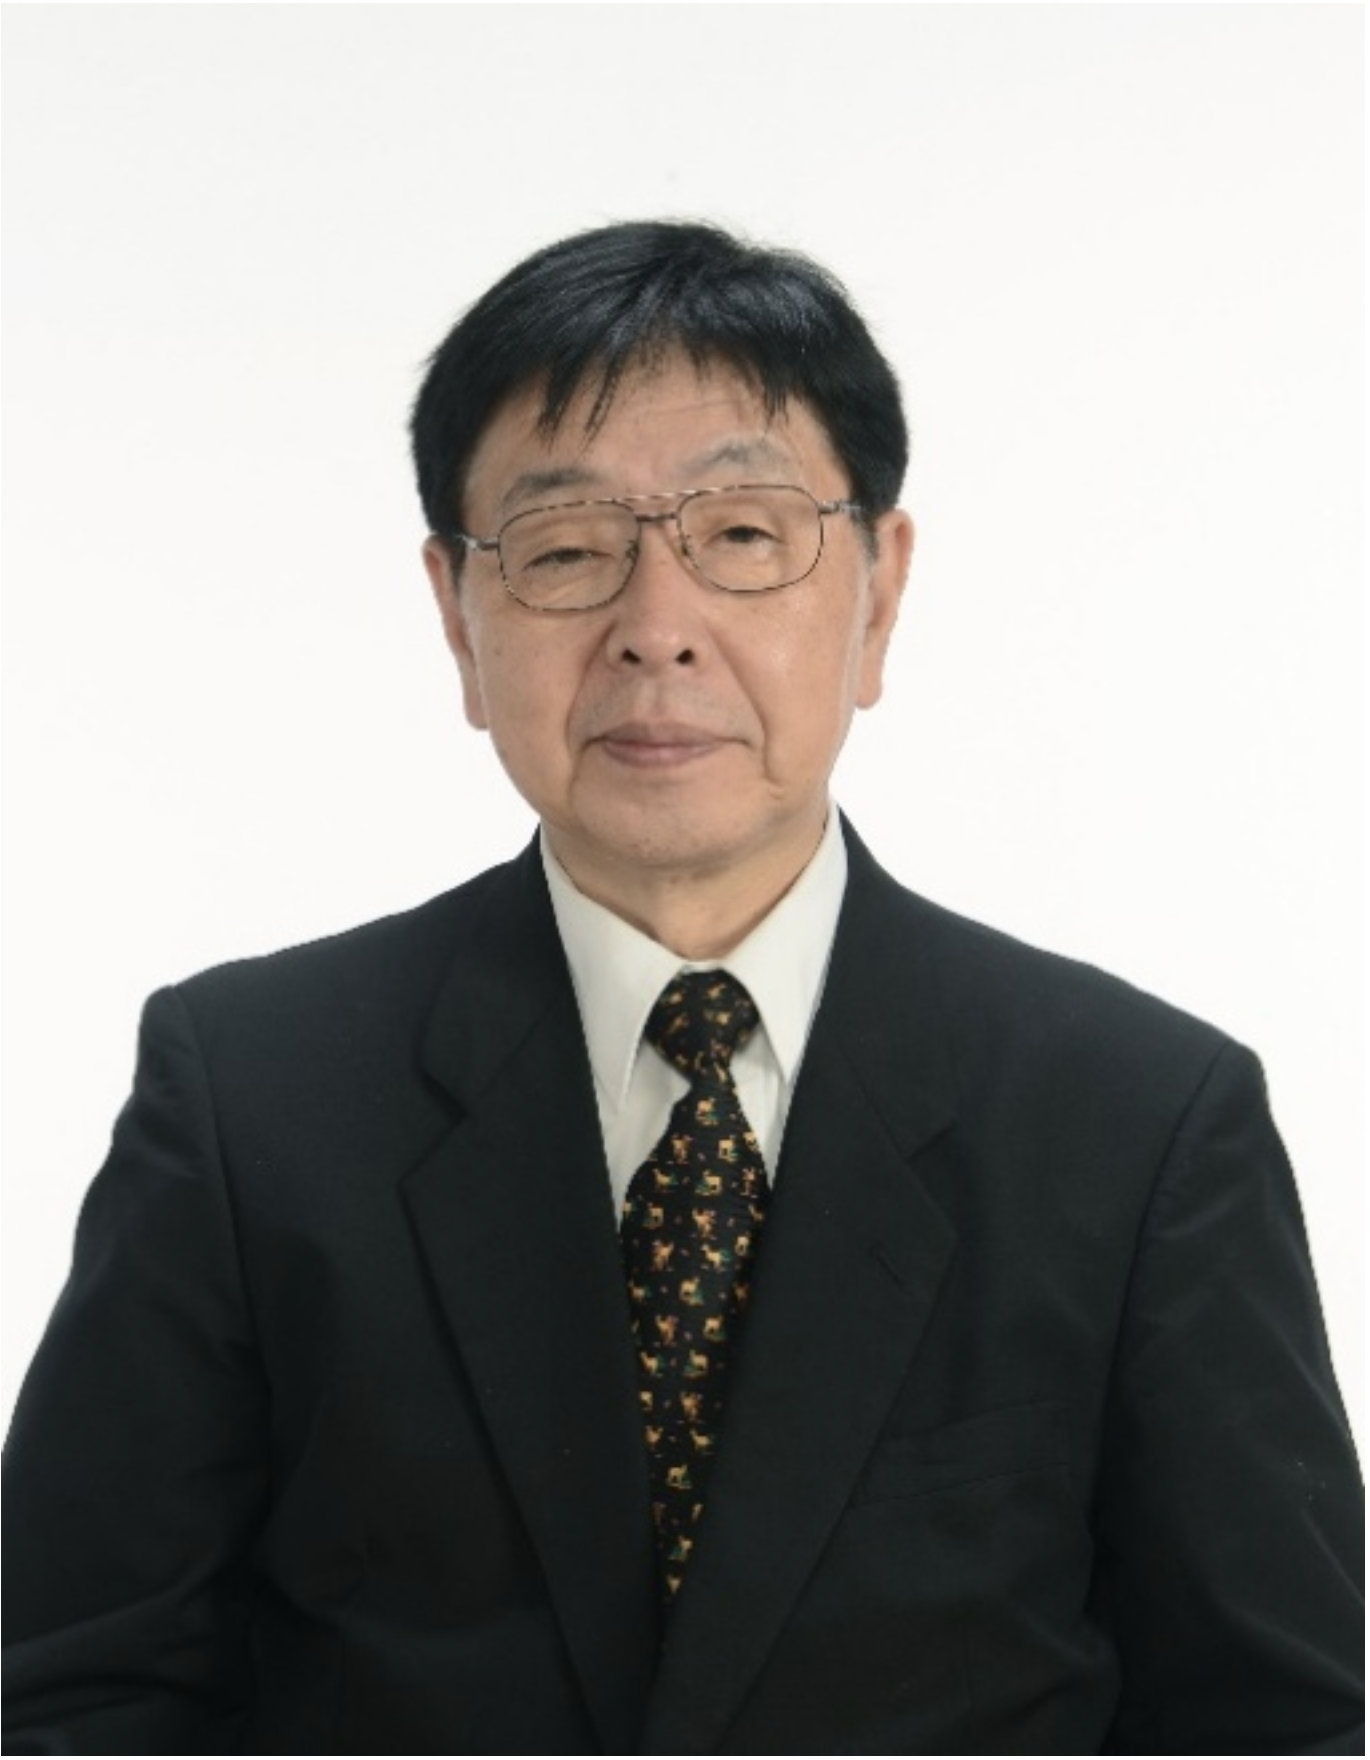
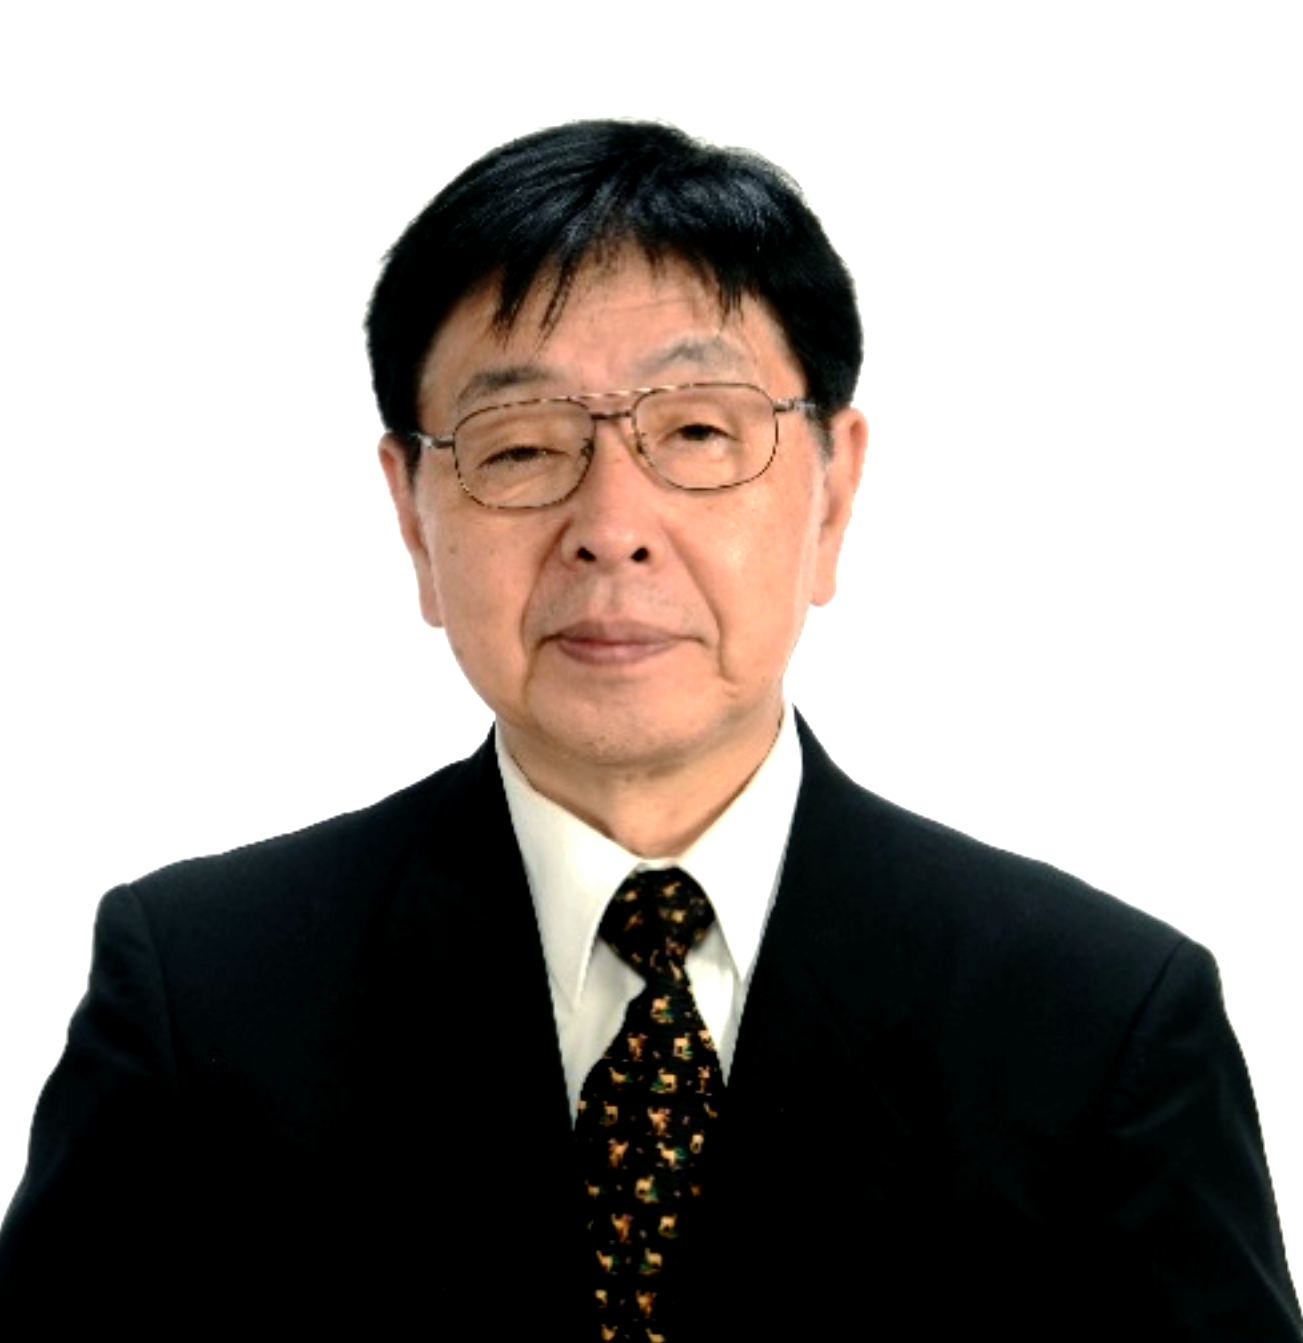
コンテンツ・コンポーネントの更新（copy.md、hero、about-intro、why-us等）
Made-with: Cursor

diff --git a/src/components/sections/why-us.tsx b/src/components/sections/why-us.tsx
@@ -1,12 +1,6 @@
 'use client';
 
 import { motion } from 'framer-motion';
-import {
-  Cpu,
-  CloudCog,
-  TrendingUp,
-  type LucideIcon,
-} from 'lucide-react';
 import { Container } from '@/components/ui/container';
 import { SectionHeading } from '@/components/ui/section-heading';
 import { WHY_US } from '@/lib/copy';
@@ -14,14 +8,8 @@ import { fadeInUp, staggerContainer, defaultViewport } from '@/lib/motion';
 
 /**
  * 選ばれる理由3本柱。
- * 各 reason に固有アイコン + ドットパターン背景を付与し視覚訴求を強化。
+ * 大きな番号 + ドットパターン背景で視覚訴求。
  */
-const REASON_ICONS: Record<string, LucideIcon> = {
-  '01': Cpu, // DX内製化
-  '02': CloudCog, // AI×クラウド
-  '03': TrendingUp, // 助成金
-};
-
 export function WhyUs() {
   return (
     <section className="bg-white section-py-lg relative overflow-hidden">
@@ -46,61 +34,50 @@ export function WhyUs() {
           variants={staggerContainer}
           className="space-y-10 md:space-y-14 max-w-5xl mx-auto"
         >
-          {WHY_US.reasons.map((reason) => {
-            const Icon = REASON_ICONS[reason.number] ?? Cpu;
-            return (
-              <motion.article
-                key={reason.number}
-                variants={fadeInUp}
-                className="relative grid grid-cols-1 md:grid-cols-[auto_1fr] gap-8 md:gap-12 items-start bg-gray-50 rounded-lg p-8 md:p-12 border border-gray-100 overflow-hidden"
-              >
-                {/* 背景: ドットパターン（右下） */}
+          {WHY_US.reasons.map((reason) => (
+            <motion.article
+              key={reason.number}
+              variants={fadeInUp}
+              className="relative grid grid-cols-1 md:grid-cols-[auto_1fr] gap-8 md:gap-12 items-start bg-gray-50 rounded-lg p-8 md:p-12 border border-gray-100 overflow-hidden"
+            >
+              {/* 背景: ドットパターン（右下） */}
+              <div
+                className="absolute -bottom-10 -right-10 w-64 h-64 opacity-[0.04]"
+                style={{
+                  backgroundImage:
+                    'radial-gradient(circle, #0B2545 1.5px, transparent 1.5px)',
+                  backgroundSize: '20px 20px',
+                }}
+                aria-hidden="true"
+              />
+
+              {/* 左側: 大きな番号 */}
+              <div className="flex-shrink-0 relative">
+                <span
+                  className="block font-sans-en font-extrabold text-accent/30 leading-none"
+                  style={{ fontSize: 'clamp(4rem, 6vw, 7rem)' }}
+                  aria-hidden="true"
+                >
+                  {reason.number}
+                </span>
+                {/* 下線 */}
                 <div
-                  className="absolute -bottom-10 -right-10 w-64 h-64 opacity-[0.04]"
-                  style={{
-                    backgroundImage:
-                      'radial-gradient(circle, #0B2545 1.5px, transparent 1.5px)',
-                    backgroundSize: '20px 20px',
-                  }}
+                  className="mt-4 w-20 h-0.5 bg-accent"
                   aria-hidden="true"
                 />
+              </div>
 
-                {/* 左側: アイコン + 番号 */}
-                <div className="flex-shrink-0 relative">
-                  {/* 番号（背景の薄い大きな数字） */}
-                  <span
-                    className="block font-sans-en font-extrabold text-accent/15 leading-none"
-                    style={{ fontSize: 'clamp(4rem, 6vw, 7rem)' }}
-                    aria-hidden="true"
-                  >
-                    {reason.number}
-                  </span>
-                  {/* アイコン円（番号の前に重ねる） */}
-                  <div className="absolute top-2 left-2 w-16 h-16 md:w-20 md:h-20 rounded-full bg-white border-2 border-accent/30 shadow-sm flex items-center justify-center">
-                    <Icon
-                      className="w-7 h-7 md:w-9 md:h-9 text-accent"
-                      strokeWidth={1.5}
-                    />
-                  </div>
-                  {/* 下線 */}
-                  <div
-                    className="mt-4 w-20 h-0.5 bg-accent"
-                    aria-hidden="true"
-                  />
+              {/* 右側: タイトル + 本文 */}
+              <div className="flex-1 relative">
+                <h3 className="typo-card mb-6 text-balance">
+                  {reason.title}
+                </h3>
+                <div className="text-primary-800 text-body leading-[1.95] whitespace-pre-line">
+                  {reason.body}
                 </div>
-
-                {/* 右側: タイトル + 本文 */}
-                <div className="flex-1 relative">
-                  <h3 className="typo-card mb-6 text-balance">
-                    {reason.title}
-                  </h3>
-                  <div className="text-primary-800 text-body leading-[1.95] whitespace-pre-line">
-                    {reason.body}
-                  </div>
-                </div>
-              </motion.article>
-            );
-          })}
+              </div>
+            </motion.article>
+          ))}
         </motion.div>
       </Container>
     </section>

diff --git a/src/components/sections/about-intro.tsx b/src/components/sections/about-intro.tsx
@@ -3,7 +3,7 @@
 import { motion } from 'framer-motion';
 import Image from 'next/image';
 import Link from 'next/link';
-import { ArrowRight, Sparkles } from 'lucide-react';
+import { ArrowRight } from 'lucide-react';
 import { Container } from '@/components/ui/container';
 import { Button } from '@/components/ui/button';
 import { ABOUT_TOP } from '@/lib/copy';
@@ -87,25 +87,12 @@ export function AboutIntro() {
                 }}
                 aria-hidden="true"
               />
-              {/* 金色の大きな円リング装飾（右上） */}
-              <div
-                className="absolute -top-16 -right-16 w-72 h-72 rounded-full border-[3px] border-accent/40 pointer-events-none"
-                aria-hidden="true"
-              />
-              <div
-                className="absolute -top-8 -right-8 w-56 h-56 rounded-full border border-accent/20 pointer-events-none"
-                aria-hidden="true"
-              />
               {/* 中央の英大文字 */}
               <div className="absolute inset-0 flex flex-col items-center justify-center px-8 text-center">
-                <Sparkles
-                  className="h-10 w-10 text-accent-300 mb-6"
-                  strokeWidth={1.4}
-                />
                 <p
                   className="font-sans-en text-white font-extrabold leading-none mb-4"
                   style={{
-                    fontSize: 'clamp(3rem, 7vw, 5rem)',
+                    fontSize: 'clamp(1.5rem, 3vw, 2rem)',
                     letterSpacing: '0.05em',
                   }}
                 >

diff --git a/src/lib/copy.ts b/src/lib/copy.ts
@@ -14,7 +14,7 @@ export const BRAND = {
   shortName: '小脇社労士事務所',
   slogan: 'Labor Lab.',
   sloganEn: 'rethinking labor for the AI era.',
-  tagline: 'DXで、労務の未来をつくる。。',
+  tagline: 'DXで、労務の未来をつくる',
   domain: 'laborlab.kowackey.com',
   siteUrl: 'https://laborlab.kowackey.com',
 } as const;
@@ -34,7 +34,7 @@ export const CONTACT = {
 // ==========================================================
 export const HERO = {
   sectionLabel: 'DX FOR YOUR BUSINESS',
-  mainHeading: ['DXで、', '労務の未来をつくる。'],
+  mainHeading: ['DXで、', '労務の未来をつくる'],
   subHeading: `紙とExcelから、AIとクラウドへ。\n鹿児島発、テクノロジーで経営を伴走する\n新時代の社労士事務所。`,
   description: `小脇社会保険労務士事務所は、\n鹿児島で唯一、AIを活用したIT・DXコンサルティング企業と連携する社会保険労務士事務所です。\n\n顧問先には、独自開発のクラウド労務管理システムを標準提供。\n書類仕事に追われる社労士ではなく、経営者の隣でDXを推進する労務パートナーへ。`,
   ctaPrimary: '無料相談を申し込む',

diff --git a/src/app/(marketing)/page.tsx b/src/app/(marketing)/page.tsx
@@ -16,7 +16,7 @@ import { CtaSection } from '@/components/sections/cta-section';
  * トップページ — DX推しの全面改訂版 (v7)
  *
  * 構成（参考: https://www.fudou3-malta.jp/ja）
- * 1. Hero ─ MV動画 + "DXで、労務の未来をつくる。"
+ * 1. Hero ─ MV動画 + "DXで、労務の未来をつくる"
  * 2. AboutIntro ─ 事務所について（抜粋）
  * 3. GreetingExcerpt ─ 代表挨拶（抜粋）
  * 4. WhyUs ─ 選ばれる3つの理由（DX / AI×クラウド / 助成金）

diff --git a/src/components/sections/hero.tsx b/src/components/sections/hero.tsx
@@ -89,7 +89,7 @@ export function Hero() {
           {/* メインヘッドコピー — Heroのみ明朝で格を出す */}
           <h1
             className="font-serif-ja text-white leading-[1.5] mb-10"
-            style={{ letterSpacing: '0.05em' }}
+            style={{ letterSpacing: '0em' }}
           >
             {HERO.mainHeading.map((line, i) => (
               <motion.span

diff --git a/src/components/sections/greeting-excerpt.tsx b/src/components/sections/greeting-excerpt.tsx
@@ -52,7 +52,7 @@ export function GreetingExcerpt() {
                   alt={`${GREETING_TOP.signature.office} 代表`}
                   fill
                   sizes="(min-width: 768px) 420px, 280px"
-                  className="object-contain p-8"
+                  className="object-cover"
                   priority={false}
                 />
               </div>

diff --git a/content/copy.md b/content/copy.md
@@ -13,7 +13,7 @@
 屋号: 小脇社会保険労務士事務所
 屋号省略形: 小脇社労士事務所
 スローガン: Labor Lab.
-タグライン: DXで、労務の未来をつくる。
+タグライン: DXで、労務の未来をつくる
 ドメイン: laborlab.kowackey.com
 所在地: 鹿児島県（詳細は確定次第）
 電話番号: [TBD]
@@ -35,7 +35,7 @@ DX FOR YOUR BUSINESS
 **メインヘッドコピー（2行）**
 ```
 DXで、
-労務の未来をつくる。
+労務の未来をつくる
 ```
 
 **サブヘッドコピー**
@@ -79,7 +79,12 @@ Secondary: サービスを見る
 AIを活用したIT・DXコンサルティング企業との提携により、顧問先に専用のクラウド労務システムと、AIによる助成金自動検出の仕組みを提供。
 
 鹿児島で、労務のこれからを実験する── Labor Lab. という姿勢で、経営者の伴走者であり続けます。
+```
 
+**ポイント3つ**:
+- 🏢 **鹿児島発** ／ 地域密着・全国対応
+- 💡 **創業5年** ／ 成長企業との実績
+- ⚡ **AI × クラウド** ／ 独自システム標準搭載
 
 ---
 
